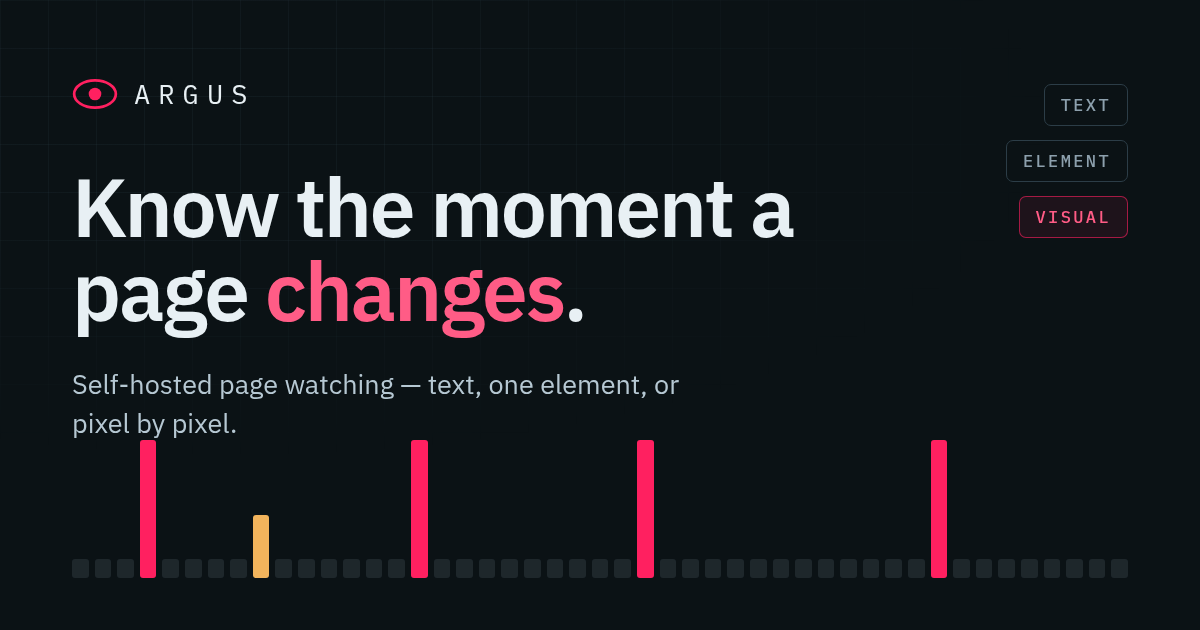
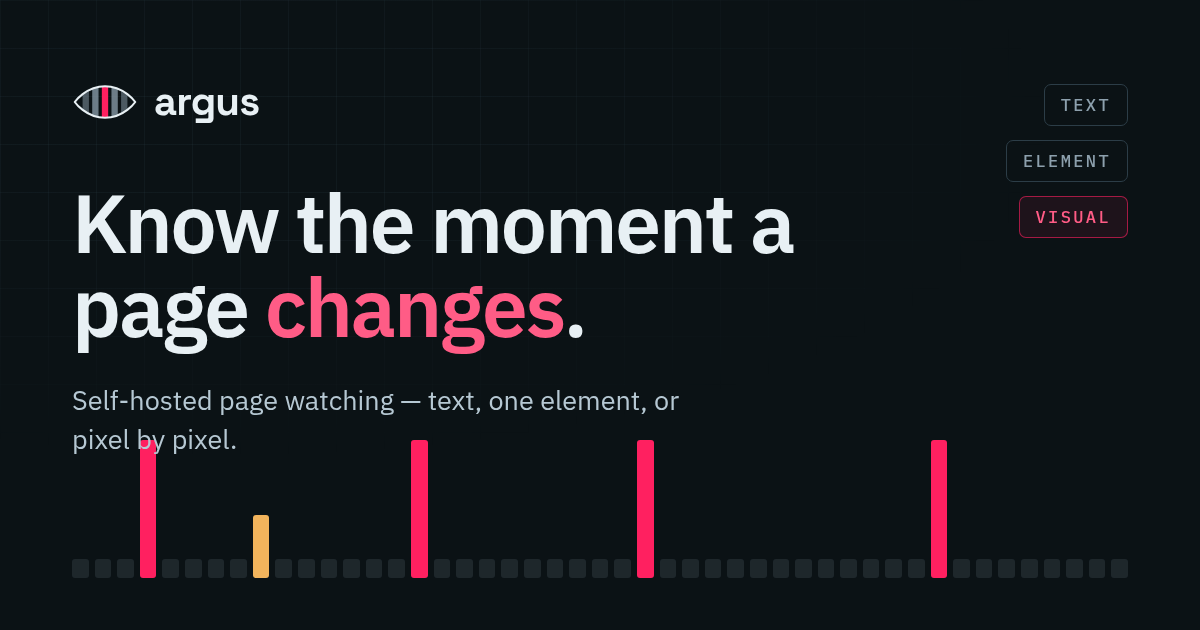
brand: the woven eye, centred, hairline contour
Mark is the vigil strip clipped inside an eye — the same primitive the watch
cards are drawn with, so the logo is a piece of the interface rather than a
picture of it. Bars derive from the centre outward (middle bar on 24, rest at
+/-7 and +/-14) so the pupil can't drift off axis; the earlier version was 1.7px
left of centre, which is what made it look shoved.

Contour is a hairline on purpose: heavier and it becomes the loudest thing in
the mark, leaving the rhythm to read as filler inside a border.

Rolled through: app (Mark + Lockup components, Space Grotesk wordmark),
favicon, OG share image, and the notification email. The email lockup is a
raster attached by cid — Gmail strips inline SVG — and the mark drops to three
bars below ~24px, where five turns to mush.

Colour stays magenta: #ff2060 is already painted into the diff overlay PNGs,
so brand and 'this changed' remain one value.

Changed region(s): [[0.0617, 0.2714, 0.6783, 0.573], [0.0617, 0.6032, 0.5858, 0.7238], [0.0617, 0.1206, 0.2158, 0.2111]]

diff --git a/web/src/components/Mark.tsx b/web/src/components/Mark.tsx
@@ -1,0 +1,79 @@
+import { useId } from 'react'
+
+/** The eye's silhouette. Bars are clipped to it, so the contour only closes the shape. */
+const EYE =
+  'M2 16C2 16 10 4.5 24 4.5C38 4.5 46 16 46 16C46 16 38 27.5 24 27.5C10 27.5 2 16 2 16Z'
+const EYE_SMALL = 'M3 16C3 16 10 6 24 6C38 6 45 16 45 16C45 16 38 26 24 26C10 26 3 16 3 16Z'
+
+/**
+ * The argus mark: the vigil strip clipped inside an eye.
+ *
+ * Bars are derived from the centre outward — the middle bar is centred on the
+ * mark and the rest sit at ±7 and ±14 — so the pupil never drifts off axis.
+ * The contour is a hairline on purpose: at a heavier weight it becomes the
+ * loudest thing in the mark and the rhythm reads as filler inside a border.
+ */
+export function Mark({
+  className = '',
+  compact = false,
+}: {
+  className?: string
+  /** Three bars instead of five. Below ~24px the five-bar rhythm turns to mush. */
+  compact?: boolean
+}) {
+  const id = useId().replace(/:/g, '')
+  const clip = `argus-eye-${id}`
+
+  return (
+    <svg
+      viewBox="0 0 48 32"
+      className={`w-auto ${className}`}
+      fill="none"
+      role="img"
+      aria-label="argus"
+    >
+      <defs>
+        <clipPath id={clip}>
+          <path d={compact ? EYE_SMALL : EYE} />
+        </clipPath>
+      </defs>
+
+      <g clipPath={`url(#${clip})`}>
+        {compact ? (
+          <>
+            <rect x="10" y="0" width="6" height="32" fill="var(--color-faint)" opacity="0.7" />
+            <rect x="21" y="0" width="6" height="32" fill="var(--color-change)" />
+            <rect x="32" y="0" width="6" height="32" fill="var(--color-faint)" opacity="0.7" />
+          </>
+        ) : (
+          <>
+            <rect x="7.7" y="0" width="4.6" height="32" fill="var(--color-faint)" opacity="0.5" />
+            <rect x="14.7" y="0" width="4.6" height="32" fill="var(--color-faint)" opacity="0.75" />
+            <rect x="21.7" y="0" width="4.6" height="32" fill="var(--color-change)" />
+            <rect x="28.7" y="0" width="4.6" height="32" fill="var(--color-faint)" opacity="0.75" />
+            <rect x="35.7" y="0" width="4.6" height="32" fill="var(--color-faint)" opacity="0.5" />
+          </>
+        )}
+      </g>
+
+      <path
+        d={compact ? EYE_SMALL : EYE}
+        stroke="currentColor"
+        strokeWidth={compact ? 3.4 : 1.5}
+        strokeLinejoin="round"
+      />
+    </svg>
+  )
+}
+
+/** Mark plus wordmark, for headers. */
+export function Lockup({ className = '', markClass = 'h-5' }: { className?: string; markClass?: string }) {
+  return (
+    <span className={`inline-flex items-center gap-2.5 ${className}`}>
+      <Mark className={`${markClass} text-ink`} />
+      <span className="font-display text-ink text-[17px] leading-none font-bold tracking-[-0.02em]">
+        argus
+      </span>
+    </span>
+  )
+}

diff --git a/web/scripts/og.html b/web/scripts/og.html
@@ -2,7 +2,7 @@
 <html>
   <head>
     <meta charset="utf-8" />
-    <link rel="stylesheet" href="https://fonts.googleapis.com/css2?family=IBM+Plex+Mono:wght@400;500&family=IBM+Plex+Sans:wght@400;500;600&display=swap" />
+    <link rel="stylesheet" href="https://fonts.googleapis.com/css2?family=IBM+Plex+Mono:wght@400;500&family=IBM+Plex+Sans:wght@400;500;600&family=Space+Grotesk:wght@700&display=swap" />
     <style>
       * { margin: 0; padding: 0; box-sizing: border-box; }
       body {
@@ -25,7 +25,7 @@
       }
       main { position: relative; padding: 76px 72px; }
       .mark { display: flex; align-items: center; gap: 16px; margin-bottom: 54px; }
-      .mark span { font-family: 'IBM Plex Mono', monospace; font-size: 27px; letter-spacing: .3em; text-transform: uppercase; }
+      .mark span { font-family: 'Space Grotesk', sans-serif; font-weight: 700; font-size: 40px; letter-spacing: -.02em; }
       h1 { font-size: 82px; line-height: 1.03; font-weight: 600; letter-spacing: -0.028em; max-width: 15ch; }
       h1 em { font-style: normal; color: #ff5c86; }
       p { margin-top: 30px; font-size: 27px; color: #b6c8d3; max-width: 40ch; line-height: 1.45; }
@@ -43,9 +43,16 @@
     <div class="vigil" id="v"></div>
     <main>
       <div class="mark">
-        <svg width="46" height="32" viewBox="0 0 32 22" fill="none">
-          <ellipse cx="16" cy="11" rx="14.5" ry="9.5" stroke="#ff2060" stroke-width="1.9" />
-          <circle cx="16" cy="11" r="4.4" fill="#ff2060" />
+        <svg width="66" height="44" viewBox="0 0 48 32" fill="none">
+          <defs><clipPath id="ogeye"><path d="M2 16C2 16 10 4.5 24 4.5C38 4.5 46 16 46 16C46 16 38 27.5 24 27.5C10 27.5 2 16 2 16Z"/></clipPath></defs>
+          <g clip-path="url(#ogeye)">
+            <rect x="7.7" y="0" width="4.6" height="32" fill="#8da0ad" opacity=".5"/>
+            <rect x="14.7" y="0" width="4.6" height="32" fill="#8da0ad" opacity=".75"/>
+            <rect x="21.7" y="0" width="4.6" height="32" fill="#ff2060"/>
+            <rect x="28.7" y="0" width="4.6" height="32" fill="#8da0ad" opacity=".75"/>
+            <rect x="35.7" y="0" width="4.6" height="32" fill="#8da0ad" opacity=".5"/>
+          </g>
+          <path d="M2 16C2 16 10 4.5 24 4.5C38 4.5 46 16 46 16C46 16 38 27.5 24 27.5C10 27.5 2 16 2 16Z" stroke="#e8f0f4" stroke-width="1.5" stroke-linejoin="round"/>
         </svg>
         <span>argus</span>
       </div>

diff --git a/web/src/Board.tsx b/web/src/Board.tsx
@@ -4,7 +4,7 @@ import { api, ago, host, humanInterval, shotUrl, until } from './api'
 import type { Watch } from './api'
 import { VigilStrip, parseTicks } from './components/VigilStrip'
 import { ModeGlyph, MODE_LABEL } from './components/ModeGlyph'
-import { Eye } from './components/Eye'
+import { Lockup, Mark } from './components/Mark'
 
 type Filter = 'all' | 'changed' | 'quiet' | 'failing' | 'paused'
 
@@ -90,9 +90,8 @@ export function Board() {
     <div className="min-h-screen">
       <header className="sticky top-0 z-20 border-b border-line bg-ground/90 backdrop-blur">
         <div className="mx-auto flex max-w-[1500px] flex-wrap items-center gap-x-4 gap-y-2 px-5 py-3">
-          <Link to="/" className="flex items-center gap-2">
-            <Eye className="h-5 w-5 text-change-ink" />
-            <span className="font-mono text-sm tracking-[0.22em] uppercase">argus</span>
+          <Link to="/" aria-label="argus — all watches">
+            <Lockup />
           </Link>
 
           <p className="font-mono text-[12px] text-dim">
@@ -312,7 +311,7 @@ function StateDot({ watch }: { watch: Watch }) {
 function Empty({ hasAny }: { hasAny: boolean }) {
   return (
     <div className="flex flex-col items-center gap-4 py-28 text-center">
-      <Eye className="h-10 w-10 text-faint/50" />
+      <Mark className="h-9 text-faint/60" />
       <div>
         <p className="text-sm text-dim">{hasAny ? 'Nothing matches this filter.' : 'Nothing is being watched yet.'}</p>
         {!hasAny && (

diff --git a/web/src/AddWatch.tsx b/web/src/AddWatch.tsx
@@ -4,7 +4,7 @@ import { api, host, previewShotUrl } from './api'
 import type { Preview, WatchMode } from './api'
 import { SelectorPicker } from './components/SelectorPicker'
 import { ModeGlyph, MODE_LABEL, MODE_BLURB } from './components/ModeGlyph'
-import { Eye } from './components/Eye'
+import { Mark } from './components/Mark'
 
 const MODES: WatchMode[] = ['text', 'element', 'visual']
 
@@ -100,7 +100,7 @@ export function AddWatch() {
     <div className="flex min-h-screen flex-col">
       <header className="sticky top-0 z-20 flex items-center gap-3 border-b border-line bg-ground/90 px-5 py-3 backdrop-blur">
         <Link to="/" className="btn-ghost btn px-2 py-1" aria-label="Back to all watches">
-          <Eye className="h-4 w-4 text-change-ink" />
+          <Mark compact className="h-4 text-ink" />
         </Link>
         <h1 className="font-mono text-xs tracking-[0.16em] uppercase">Watch a page</h1>
       </header>
@@ -328,7 +328,7 @@ export function AddWatch() {
               <p className="p-6 text-sm text-dim">Reading the page…</p>
             ) : !preview ? (
               <div className="flex h-full flex-col items-center justify-center gap-3 px-6 text-center">
-                <Eye className="h-9 w-9 text-faint/40" />
+                <Mark className="h-9 text-faint/50" />
                 <p className="max-w-xs text-sm text-dim">
                   Give argus an address and it will show you exactly what it's going to compare.
                 </p>

diff --git a/server/src/notify/email.ts b/server/src/notify/email.ts
@@ -1,6 +1,10 @@
+import { dirname, join } from 'node:path'
+import { fileURLToPath } from 'node:url'
 import nodemailer from 'nodemailer'
 import type { Settings } from '../settings.ts'
 import type { Message } from './render.ts'
+
+const LOCKUP = join(dirname(fileURLToPath(import.meta.url)), '../../assets/lockup@2x.png')
 
 export async function sendEmail(
   cfg: Settings['email'],
@@ -25,8 +29,12 @@ export async function sendEmail(
     html: msg.emailHtml,
     // The template references this by cid, so the image travels with the mail
     // instead of pointing at a LAN-only URL the reader can't reach.
-    attachments: imagePath
-      ? [{ filename: 'change.png', path: imagePath, cid: 'argusdiff' }]
-      : undefined,
+    attachments: [
+      // Gmail and friends strip inline SVG, so the wordmark travels as a raster.
+      { filename: 'argus.png', path: LOCKUP, cid: 'arguslogo' },
+      // The template references this by cid, so the image travels with the mail
+      // instead of pointing at a LAN-only URL the reader can't reach.
+      ...(imagePath ? [{ filename: 'change.png', path: imagePath, cid: 'argusdiff' }] : []),
+    ],
   })
 }

diff --git a/web/src/Settings.tsx b/web/src/Settings.tsx
@@ -2,7 +2,7 @@ import { useEffect, useState } from 'react'
 import { Link } from 'react-router-dom'
 import { api } from './api'
 import type { AllSettings, ChannelId } from './api'
-import { Eye } from './components/Eye'
+import { Mark } from './components/Mark'
 
 type TestState = { state: 'idle' | 'sending' | 'ok' | 'error'; message?: string }
 
@@ -72,7 +72,7 @@ export function Settings() {
     <div className="min-h-screen">
       <header className="border-line bg-ground/90 sticky top-0 z-20 flex items-center gap-3 border-b px-5 py-3 backdrop-blur">
         <Link to="/" className="btn-ghost btn px-2 py-1" aria-label="Back to all watches">
-          <Eye className="text-change-ink h-4 w-4" />
+          <Mark compact className="h-4 text-ink" />
         </Link>
         <h1 className="font-mono text-xs tracking-[0.16em] uppercase">Notifications</h1>
         <button className="btn btn-primary ml-auto" onClick={save} disabled={saving}>

diff --git a/web/src/WatchDetail.tsx b/web/src/WatchDetail.tsx
@@ -8,7 +8,7 @@ import { TextDiff } from './components/TextDiff'
 import { Controls } from './components/Controls'
 import { SelectorPicker } from './components/SelectorPicker'
 import { ModeGlyph } from './components/ModeGlyph'
-import { Eye } from './components/Eye'
+import { Mark } from './components/Mark'
 
 export function WatchDetail() {
   const { id } = useParams()
@@ -85,7 +85,7 @@ export function WatchDetail() {
       <header className="sticky top-0 z-20 border-b border-line bg-ground/90 backdrop-blur">
         <div className="flex flex-wrap items-center gap-x-3 gap-y-2 px-5 py-3">
           <Link to="/" className="btn-ghost btn px-2 py-1" aria-label="Back to all watches">
-            <Eye className="h-4 w-4 text-change-ink" />
+            <Mark compact className="h-4 text-ink" />
           </Link>
           <div className="min-w-0 max-w-[46ch]">
             <h1 className="flex items-center gap-2 text-base leading-tight">

diff --git a/server/src/notify/render.ts b/server/src/notify/render.ts
@@ -118,8 +118,8 @@ function email(
     <tr><td align="center">
       <table role="presentation" width="100%" cellpadding="0" cellspacing="0" style="max-width:620px;background:#ffffff;border:1px solid #e3e8ea;border-radius:12px;overflow:hidden;font-family:-apple-system,BlinkMacSystemFont,'Segoe UI',Roboto,sans-serif;">
 
-        <tr><td style="padding:18px 22px;background:#0b1215;">
-          <span style="color:#ffffff;font-size:13px;letter-spacing:.24em;text-transform:uppercase;font-family:ui-monospace,Menlo,monospace;">argus</span>
+        <tr><td style="padding:16px 22px;background:#0b1215;">
+          <img src="cid:arguslogo" alt="argus" width="162" height="31" style="display:block;border:0;" />
         </td></tr>
 
         <tr><td style="padding:24px 22px 6px;">

diff --git a/web/src/styles.css b/web/src/styles.css
@@ -6,6 +6,7 @@
 @import '@fontsource-variable/ibm-plex-sans';
 @import '@fontsource/ibm-plex-mono/400.css';
 @import '@fontsource/ibm-plex-mono/500.css';
+@import '@fontsource/space-grotesk/700.css';
 
 @theme {
   /* Surfaces — three steps, each visibly separated from the last. */
@@ -31,6 +32,8 @@
 
   --font-sans: 'IBM Plex Sans Variable', system-ui, sans-serif;
   --font-mono: 'IBM Plex Mono', ui-monospace, monospace;
+  /* Wordmark only — one weight, used for the lockup and nothing else. */
+  --font-display: 'Space Grotesk', 'IBM Plex Sans Variable', system-ui, sans-serif;
 
   --ease-out: cubic-bezier(0.16, 1, 0.3, 1);
 }
